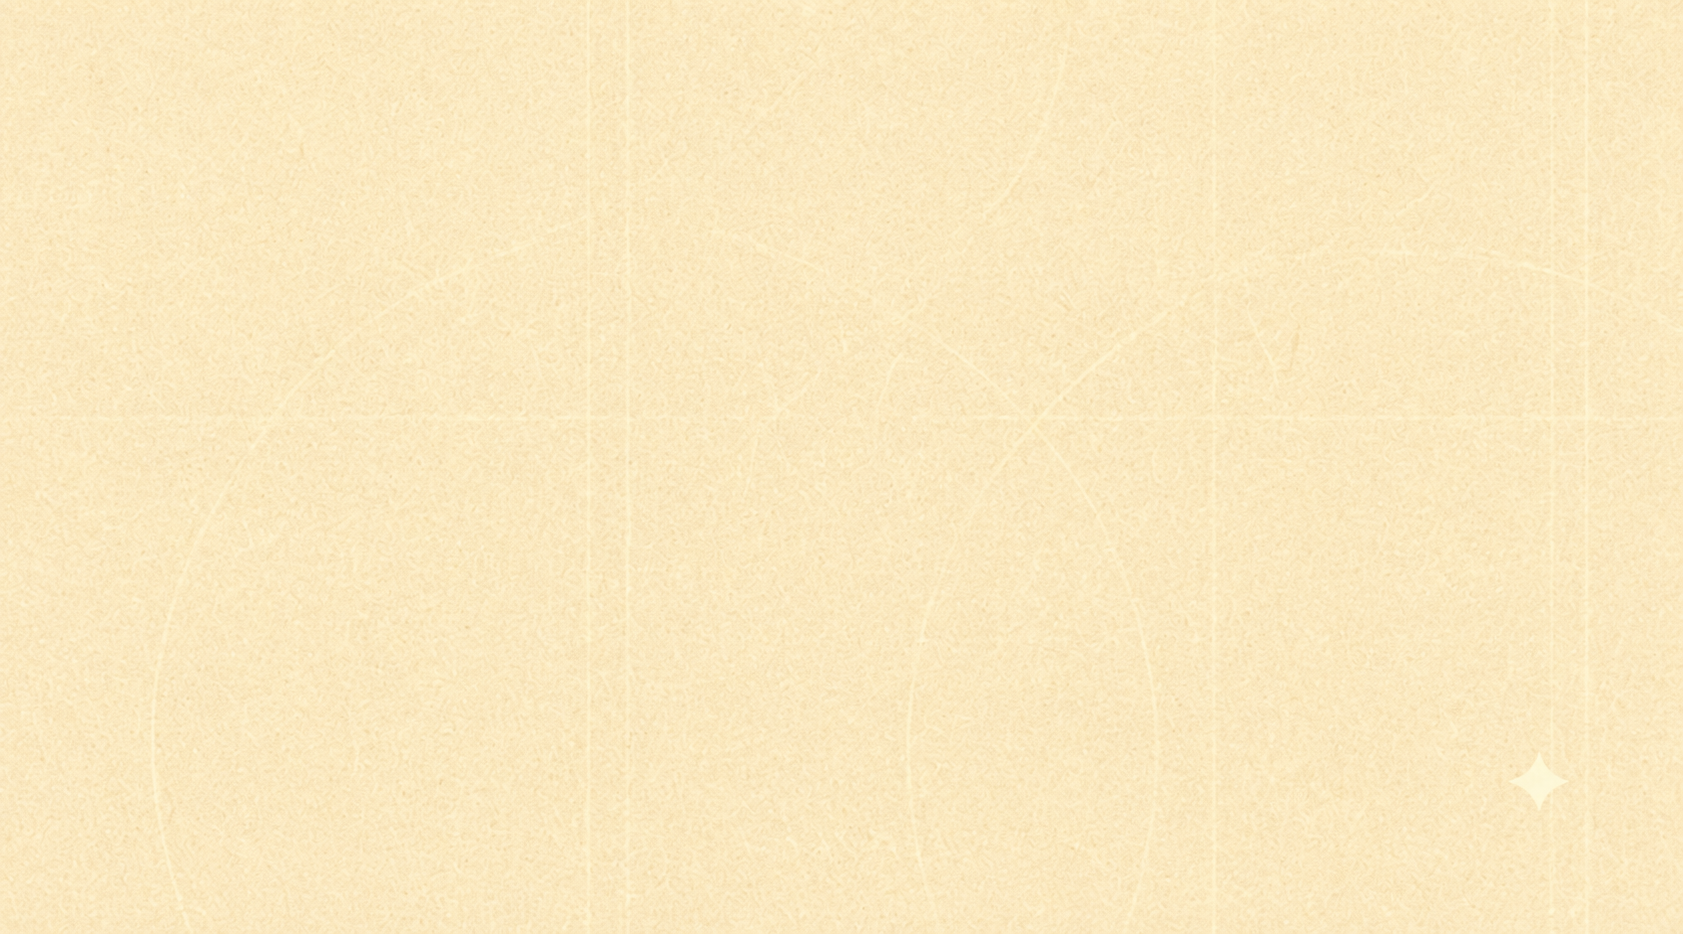
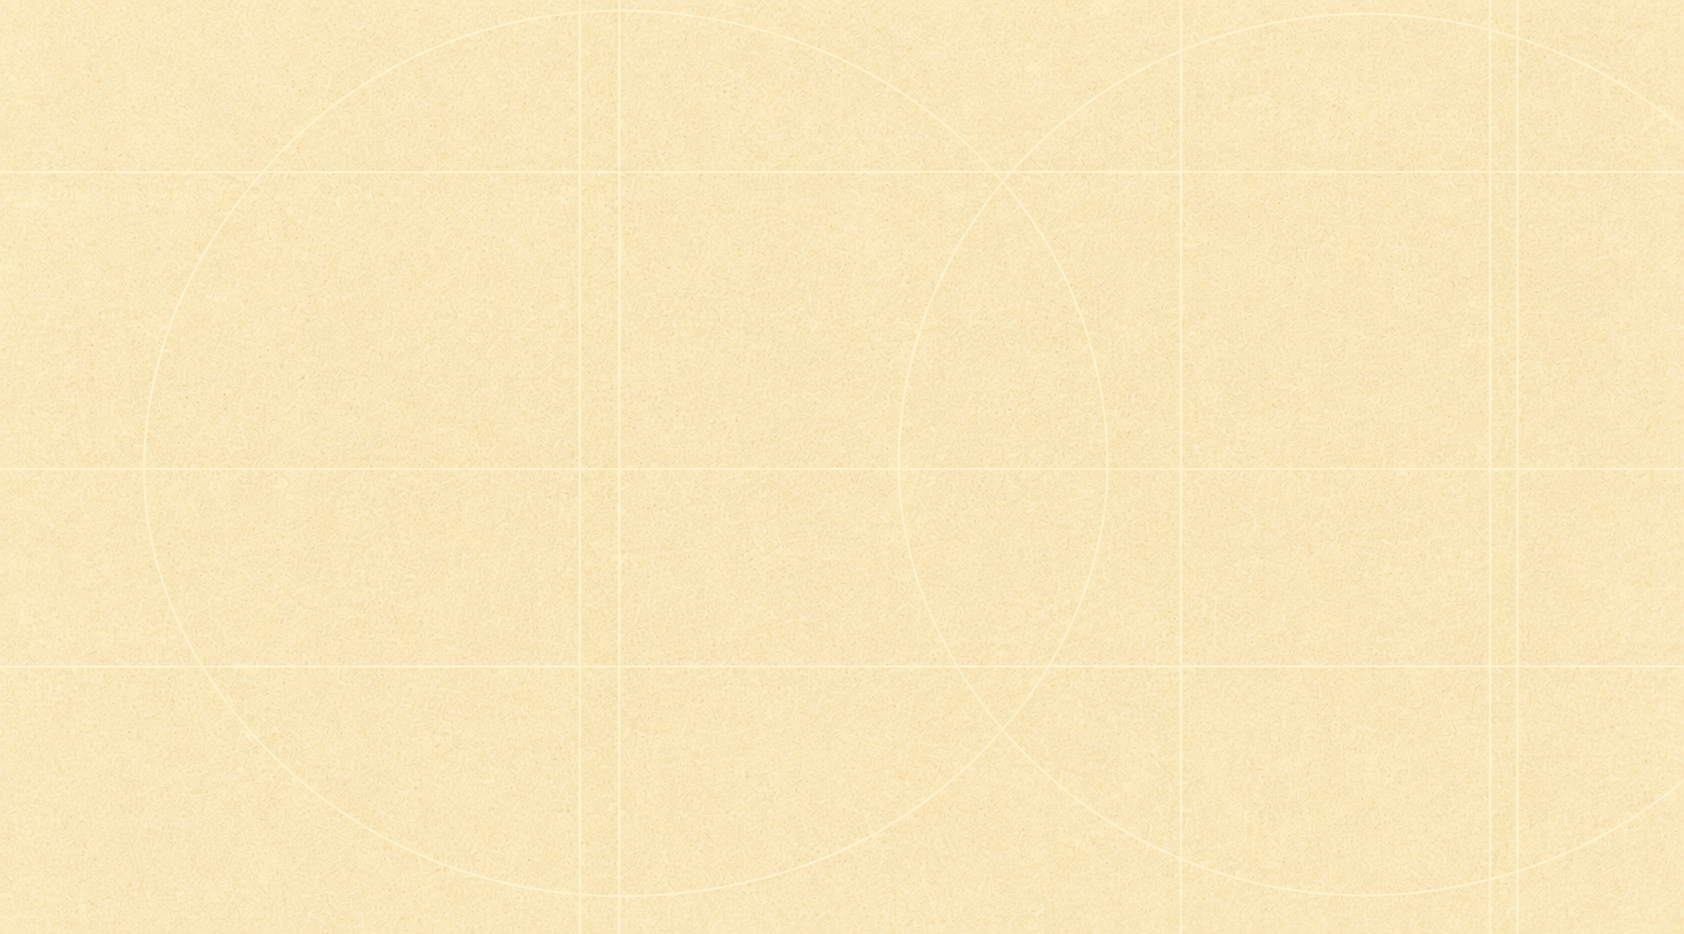
hero updated

Changed region(s): [[0.896, 0.8073, 0.9269, 0.8694]]

diff --git a/src/components/HeroSection.tsx b/src/components/HeroSection.tsx
@@ -35,25 +35,10 @@ const HeroSection = () => {
       <div
         className="absolute inset-0 pointer-events-none z-0 bg-[#F9E7B7] bg-no-repeat bg-center bg-cover"
         style={{
-          backgroundImage: "url('/paper-texture-clean.jpg')",
+          backgroundImage: "url('/hero-bg.png')",
         }}
       />
 
-      {/* Layer 1.5: Side Heritage Buildings (Watermark effect) */}
-      <div className="absolute inset-0 pointer-events-none z-[2] overflow-hidden opacity-40 mix-blend-multiply">
-        {/* Left Side Background Buildings */}
-        <img
-          src={heritageCombinedImg}
-          alt=""
-          className="absolute -left-[40%] md:-left-[20%] lg:-left-[10%] top-[15%] h-[60%] lg:h-[80%] w-auto object-cover opacity-60"
-        />
-        {/* Right Side Background Buildings (flipped) */}
-        <img
-          src={heritageCombinedImg}
-          alt=""
-          className="absolute -right-[40%] md:-right-[20%] lg:-right-[10%] top-[25%] h-[50%] lg:h-[70%] w-auto object-cover opacity-60 -scale-x-100"
-        />
-      </div>
 
       {/* Layer 2: Indian Heritage Skyline Layer — Continuous bottom decorative layer with entrance animation */}
       <motion.div
